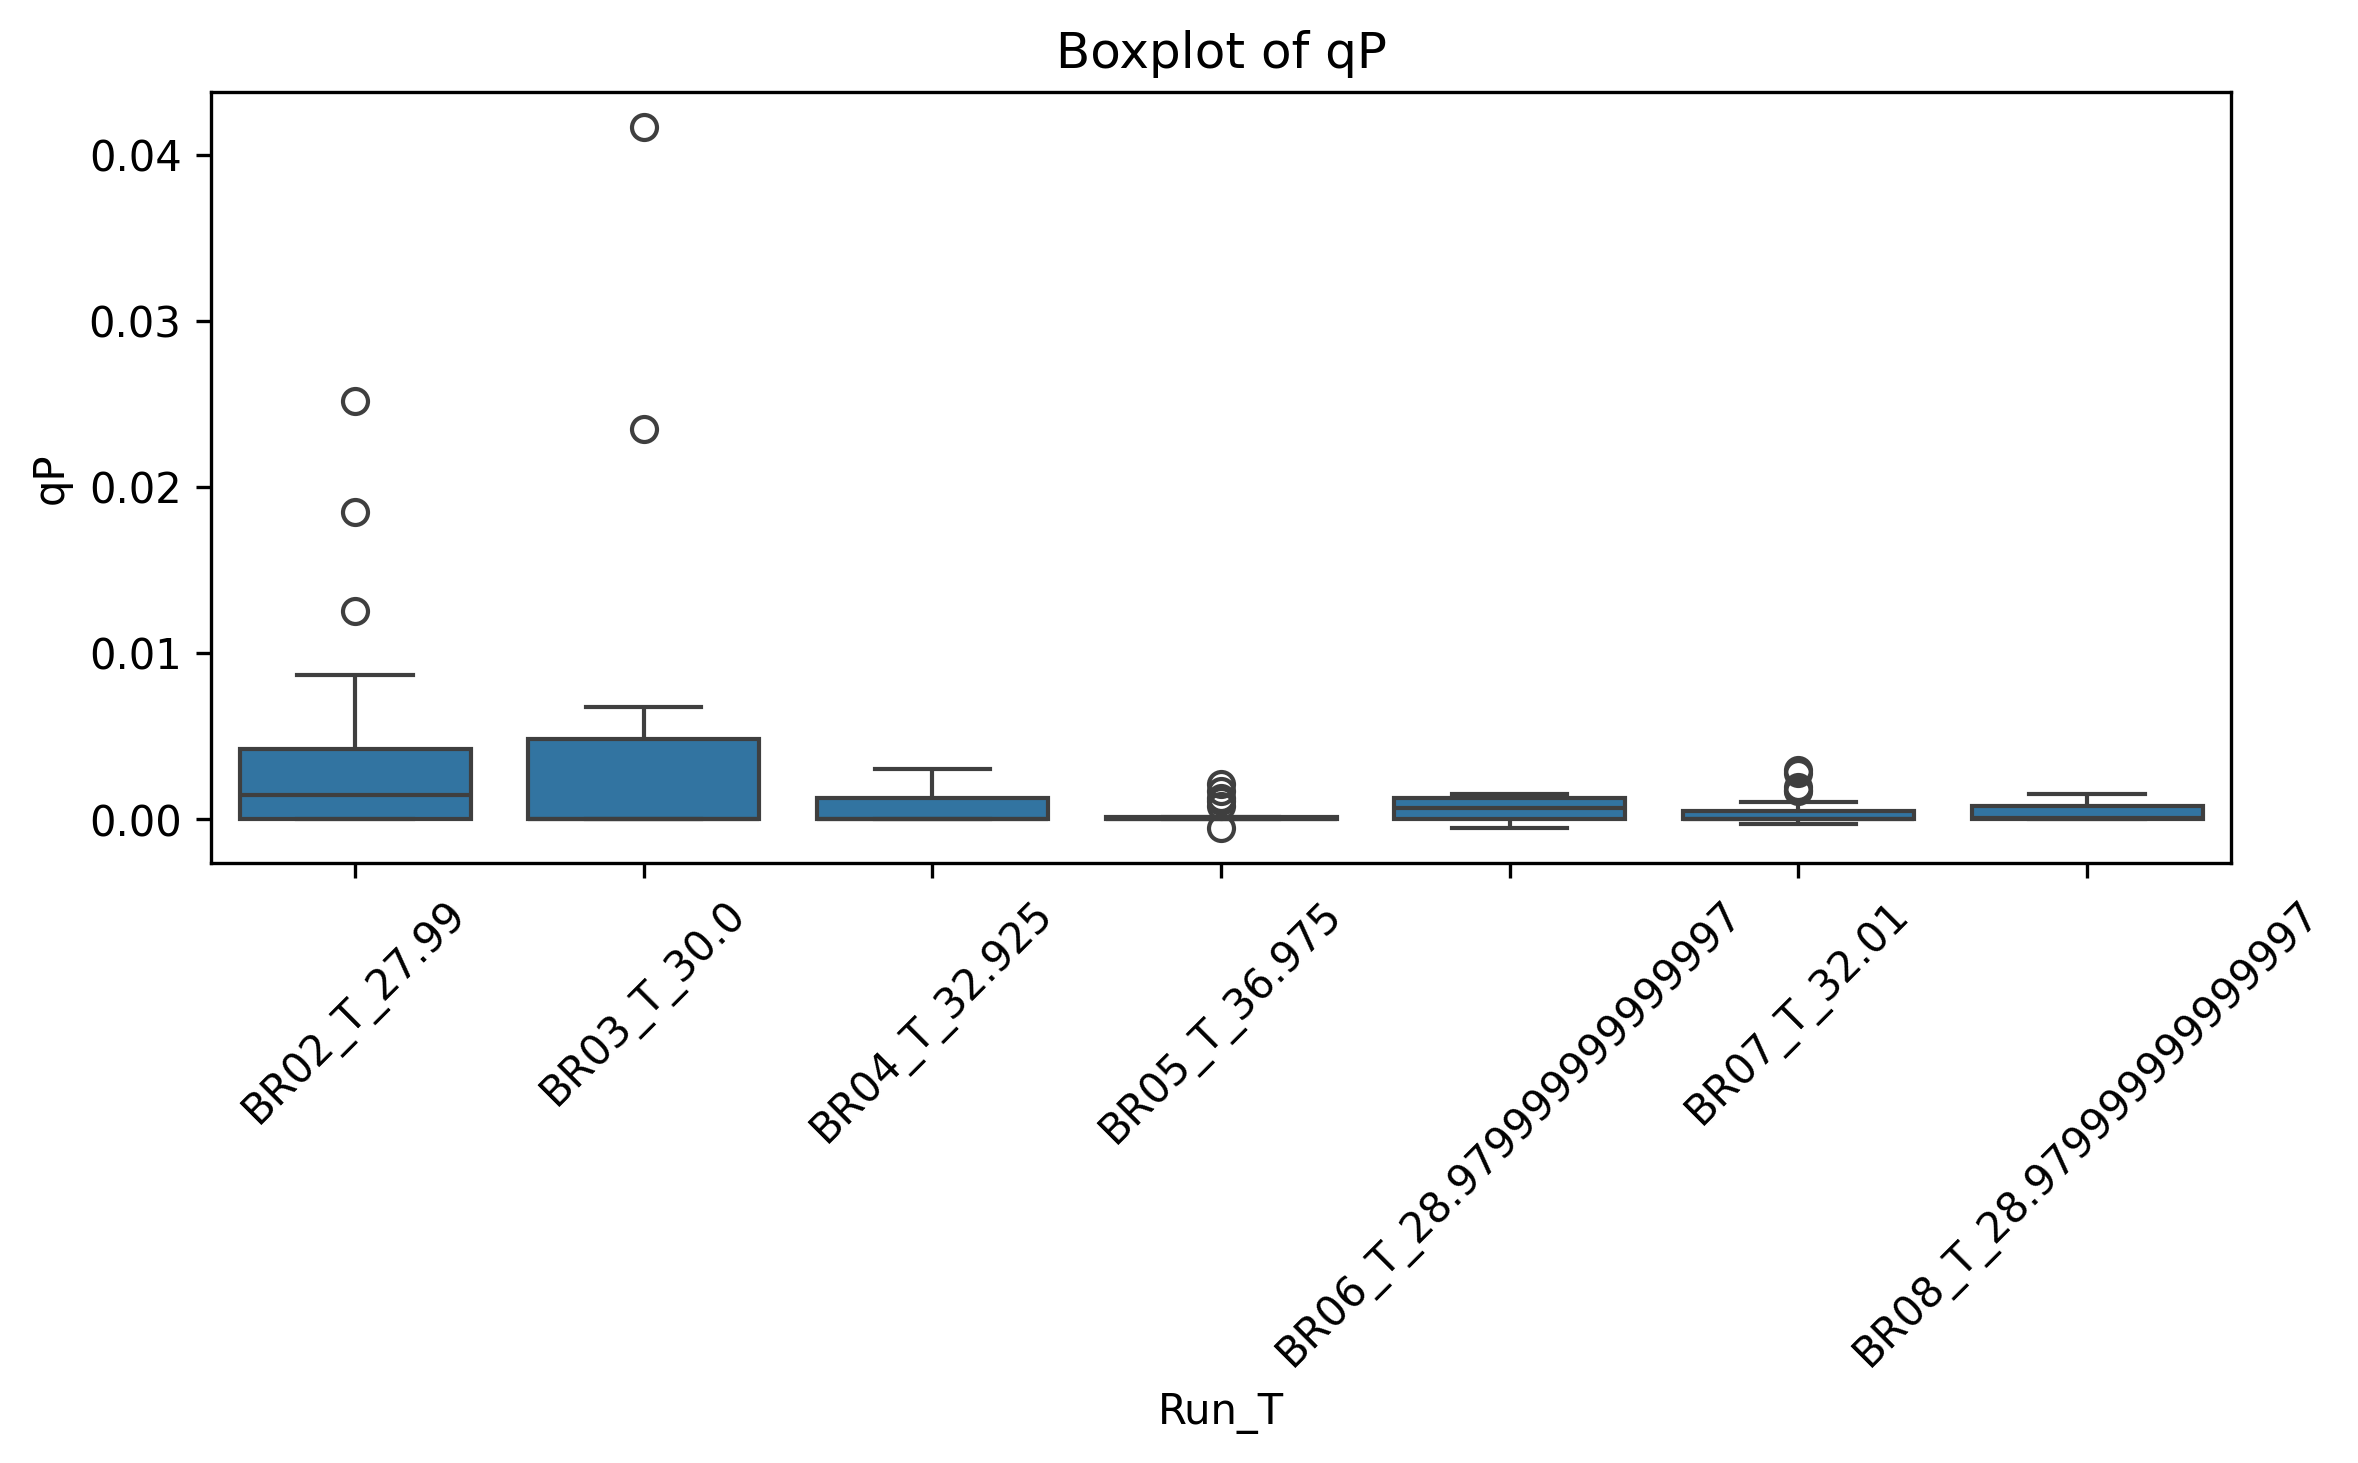
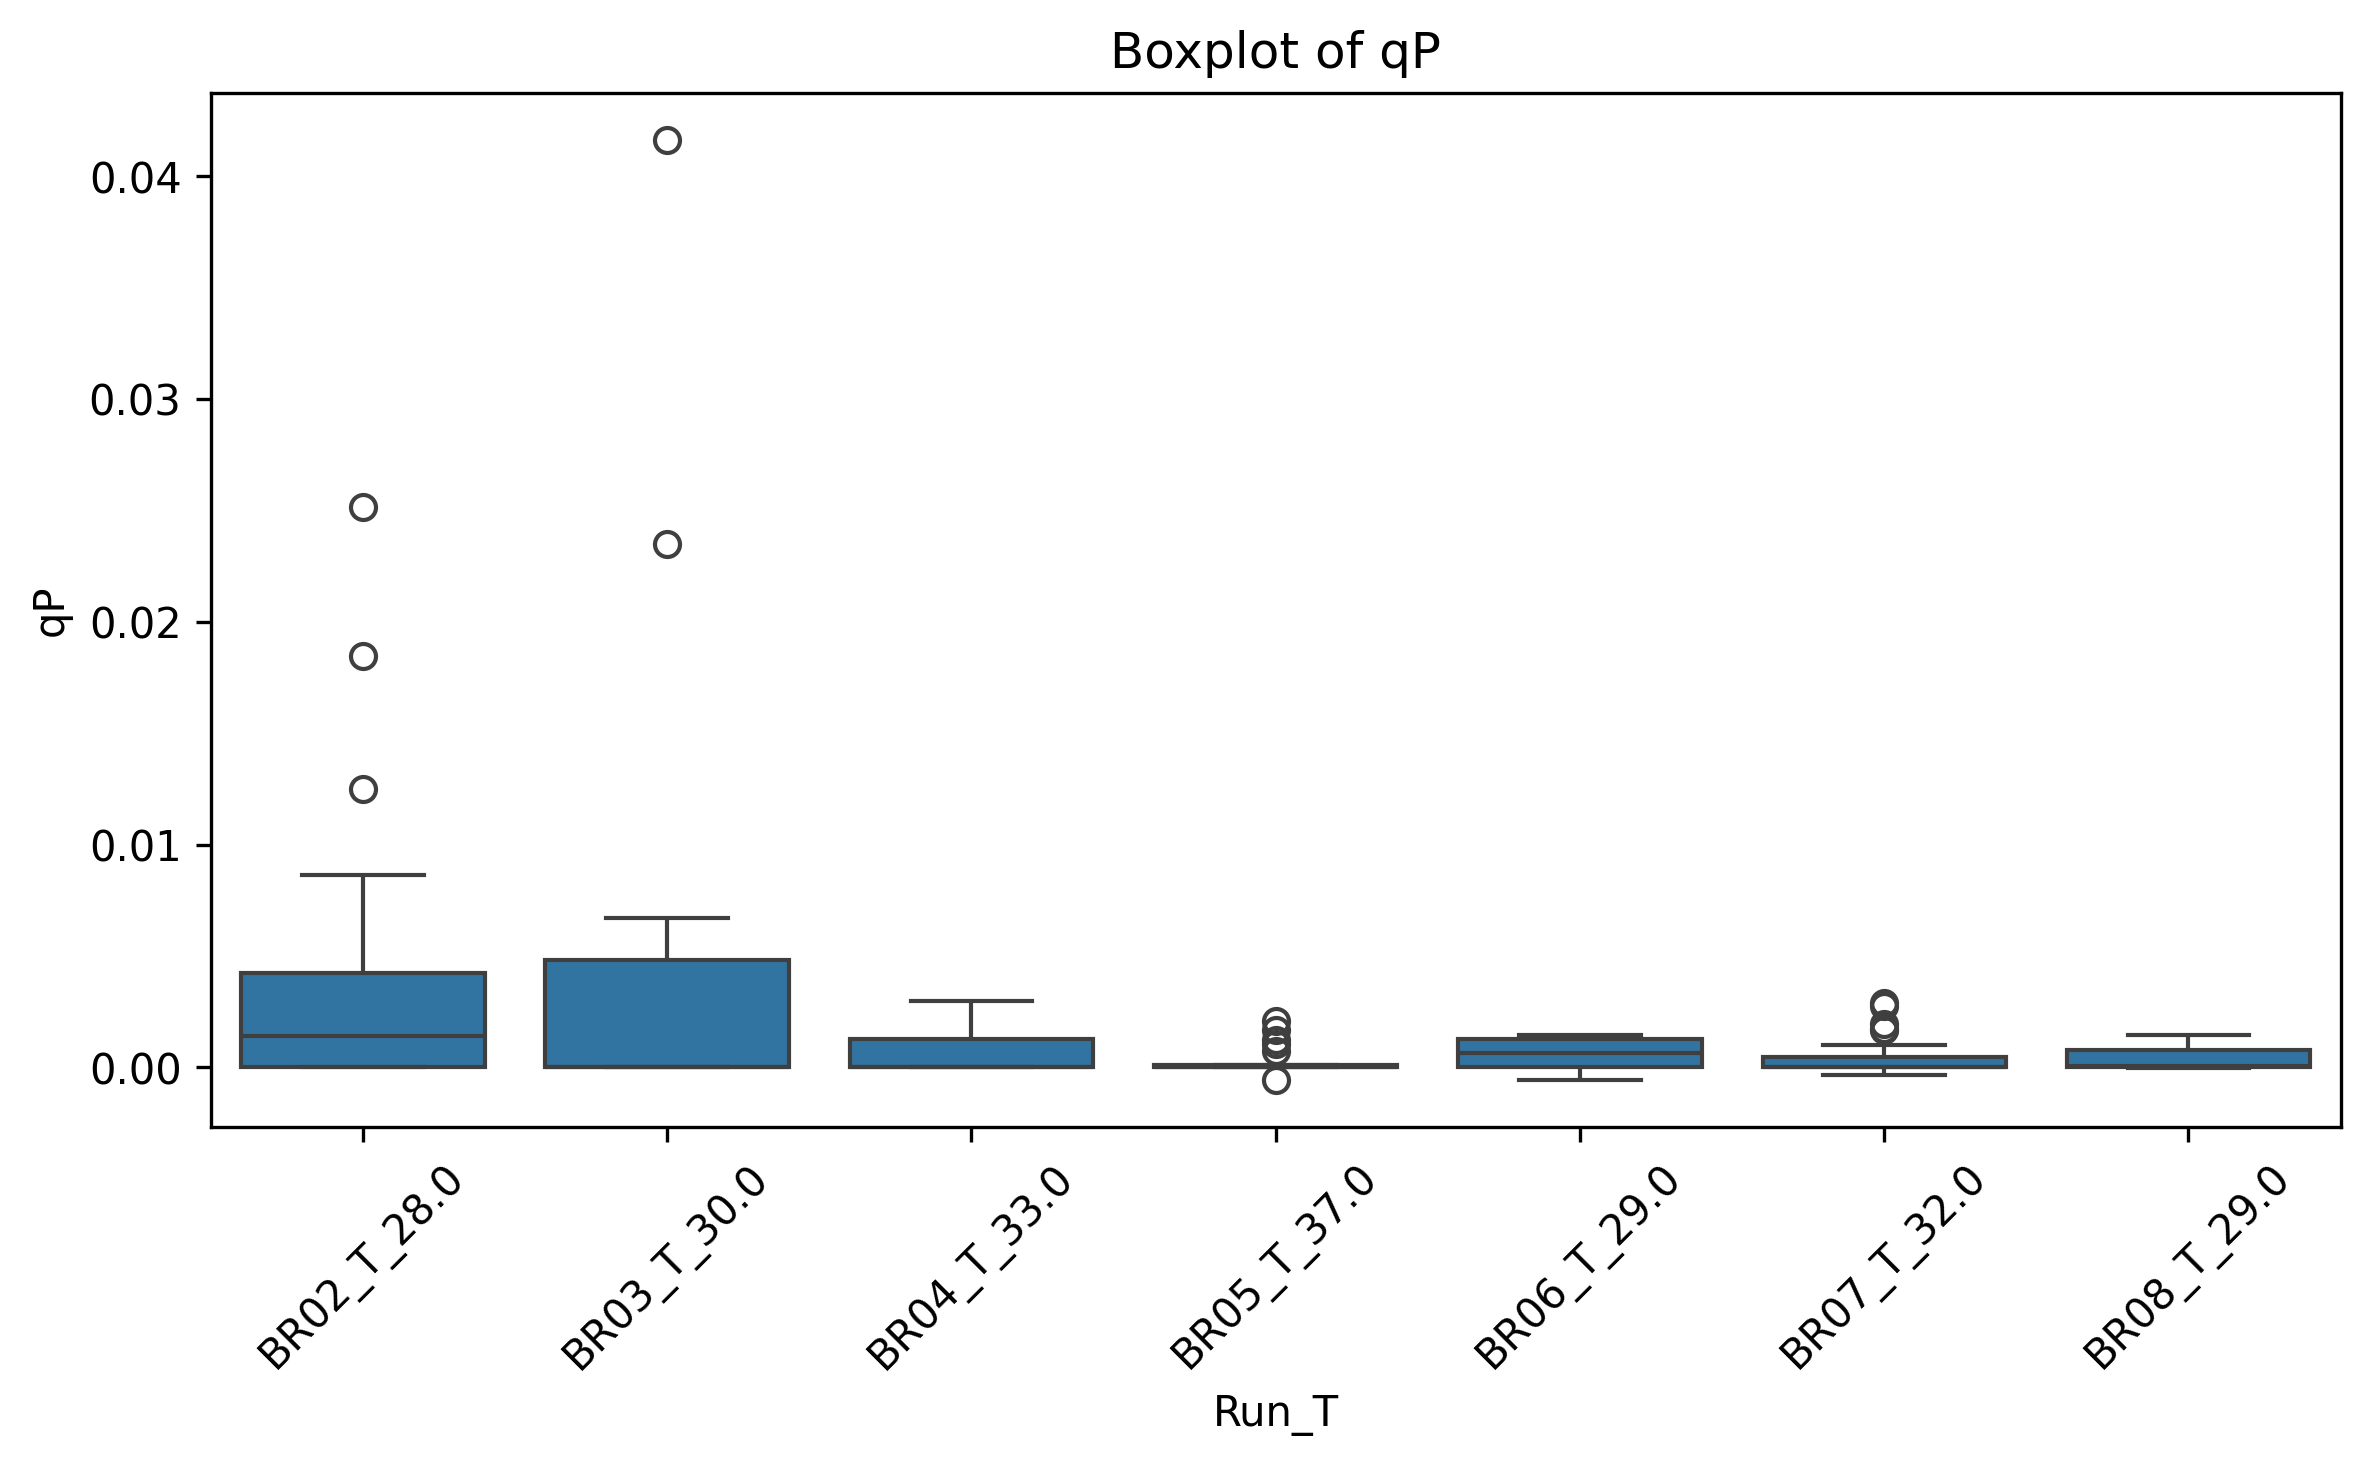
Fixing plot problems 3.0

diff --git a/fedbatch/data_analysis/preprocessing.py b/fedbatch/data_analysis/preprocessing.py
@@ -109,15 +109,17 @@ def calcular_mu_qp(df):
     return df
 
 
-def agregar_T_ind(df):
+def agregar_T_ind(df,n_ultimos=4):
 
     # Asegurar orden temporal
     last_T = (
         df
         .sort_values("time")
-        .groupby("Run_ID")["T"]
-        .last()
-        .astype(str)  # convertir a no numérico
+        .groupby("Run_ID")["T"] 
+        # .last()
+        .apply(lambda s: s.tail(n_ultimos).mean()) # últimos 4 valores
+        .round(1)
+        .astype(str)  # convertir a str
     )
 
     # Asignar a todas las filas
@@ -281,25 +283,33 @@ def get_numeric_columns(df):
 
 # -------------  Series temporales superpuestas --------------
 def timeseries_per_run(df, variable, save_dir=None):
-    plt.figure(figsize=(8, 5))
-    for run_id, sub in df.groupby("Run_T"):
-        plt.plot(sub["time"], sub[variable], label=run_id)
 
-    plt.xlabel("Time")
-    plt.ylabel(variable)
-    plt.title(f"{variable} vs tiempo")
-    plt.legend()
-    plt.grid(True)
+    # plt.figure(figsize=(8, 5))
+    fig, ax = plt.subplots(figsize=(8, 5))
+
+    for run_id, sub in df.groupby("Run_T"):   
+        ax.scatter(sub["time"], sub[variable], label = run_id, s=20, alpha=0.7)
+        # ax.plot(sub["time"], sub[variable], label=run_id)
+    
+    ax.set_title(f"{variable} vs tiempo")
+    ax.set_xlabel("Time")
+    ax.set_ylabel(variable)
+    ax.legend()
+    ax.grid(True)
+    plt.tight_layout()
+
     if save_dir:
             savepath = f"{save_dir}/timeseries_{variable}.png"
             plt.savefig(savepath, dpi=300, bbox_inches="tight")
-    plt.close()
+
+    plt.close(fig)
+
     # Ejemplo uso:
     # timeseries_per_run(df, "X")
 
 # ------------- Scatter para pares de variables --------------
 def scatter_fun(df, x, y, save_dir=None):
-    plt.figure(figsize=(6, 5))
+    # plt.figure(figsize=(6, 5))
 
     fig, ax = plt.subplots(figsize=(8, 5))
     sns.scatterplot(
@@ -317,6 +327,7 @@ def scatter_fun(df, x, y, save_dir=None):
     if save_dir:
             savepath = f"{save_dir}/scatter_{x}_{y}.png"
             plt.savefig(savepath, dpi=300, bbox_inches="tight")
+
     plt.close(fig)
 
     # Ejemplo uso:

diff --git a/execution/data_analysis.py b/execution/data_analysis.py
@@ -16,12 +16,13 @@ run_EAD(df, save_dir)
 
 # Time series overlaped
 save_dir="results/data_analysis/time_series"
-variable = ['X']
-timeseries_per_run(df, variable, save_dir)
+variables = ["X", "S", "V", "mu", "qP", "I", "T", "A"]
+for variable in variables:
+        timeseries_per_run(df, variable, save_dir)
 
 # Scatter
 save_dir="results/data_analysis/scatter"
-variables = ["X", "V", "mu", "qP"]
+variables = ["X", "S", "V", "mu", "qP", "I", "T", "A"]
 for i, x in enumerate(variables):
     for y in variables[i+1:]:
         scatter_fun(df, x, y, save_dir)
